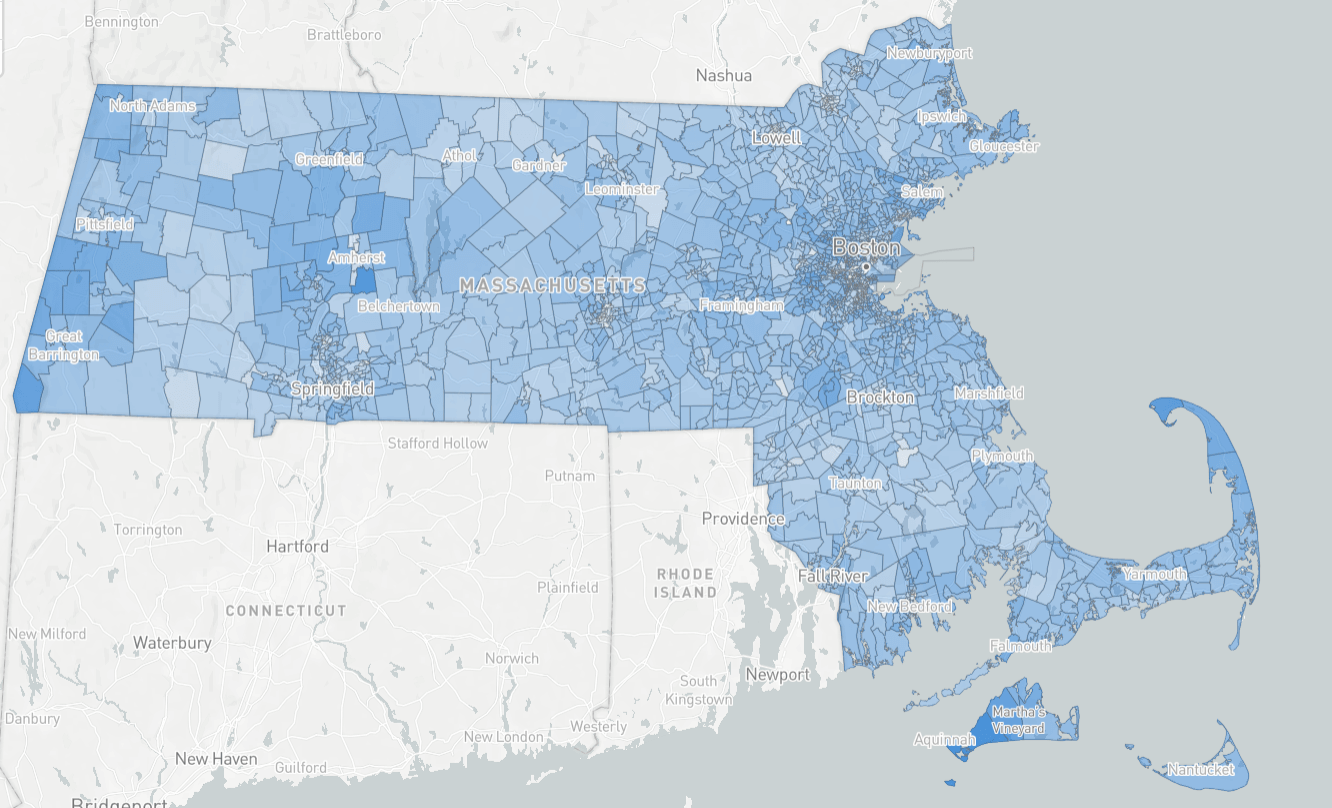
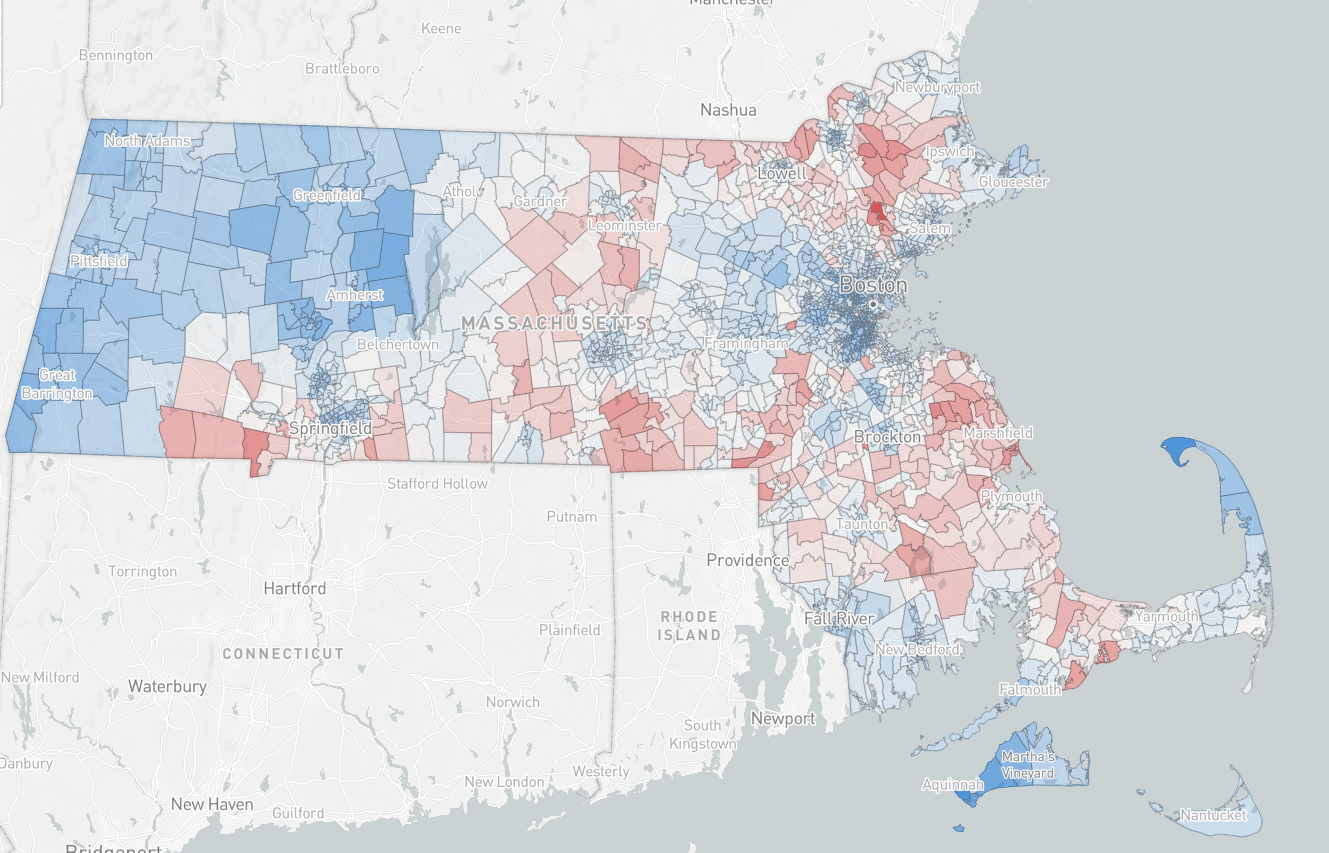
Add images

diff --git a/collections/_works/gerrychain.md b/collections/_works/gerrychain.md
@@ -1,14 +1,14 @@
 ---
 title: GerryChain
-authors: The GerryChain Team
+authors: MGGG and VRDI
 type: code
 date: 2018-09-01
 
 description: Our open-source Python library for sampling ensembles
-    of districting plans using MCMC. Developed by
-    Mary Barker, Robert Dougherty-Bliss, Daryl DeFord, Max Hully,
-    Anthony Pizzimenti and Preston Ward during the 2018 Voting Rights
-    Data Institute.
+  of districting plans using MCMC. Developed by
+  Mary Barker, Robert Dougherty-Bliss, Daryl DeFord, Max Hully,
+  Anthony Pizzimenti and Preston Ward during the 2018 Voting Rights
+  Data Institute.
 
 href: https://gerrychain.readthedocs.io
 github: https://github.com/mggg/GerryChain

diff --git a/collections/_works/massachusetts_republicans.md b/collections/_works/massachusetts_republicans.md
@@ -5,8 +5,8 @@ authors:
   H.&nbsp;Newman, and H.&nbsp;Wheelen
 date: 2018-10-22
 type: research
-# image: /static/images/massachusetts_republicans.png
-# image_alt: Massachusetts is a homogeneous sea of blue
+image: /static/images/massachusetts_republicans.png
+image_alt: Massachusetts is a homogeneous sea of blue
 
 description:
   We argue that the underperformance of Republicans in Massachusetts is not

diff --git a/collections/_works/virginia.md b/collections/_works/virginia.md
@@ -2,8 +2,8 @@
 title: Comparison of Districting Plans for the Virginia House of Delegates
 authors: MGGG
 date: 2018-11-25
-# image: /static/images/va2018-clipped.svg
-# image_alt: An abstract representation of a BVAP plot
+image: /static/images/va2018-clipped.svg
+image_alt: An abstract representation of a BVAP plot
 type: report
 
 description:

diff --git a/collections/_works/ei.md b/collections/_works/ei.md
@@ -1,6 +1,7 @@
 ---
 
 title: Ecological Inference Apps
+authors: VRDI
 description: '
 Ecological inference (EI) is the main statistical technique used to establish racially
 polarized voting (RPV). A team at the 2018 Voting Rights Data Institute created R Shiny apps
